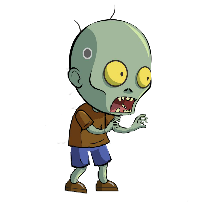
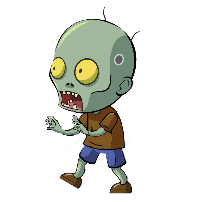
Added background+zombie animation

Changed region(s): [[0.21, 0.0297, 0.78, 0.9802], [0.57, 0.0297, 0.6, 0.0594]]

diff --git a/Label.java b/Label.java
@@ -1,0 +1,94 @@
+import greenfoot.*;  // (World, Actor, GreenfootImage, Greenfoot and MouseInfo)
+
+
+/**
+ * A Label class that allows you to display a textual value on screen.
+ * 
+ * The Label is an actor, so you will need to create it, and then add it to the world
+ * in Greenfoot.  If you keep a reference to the Label then you can change the text it
+ * displays.  
+ *
+ * @author Amjad Altadmri 
+ * @version 1.1
+ */
+public class Label extends Actor
+{
+    private String value;
+    private int fontSize;
+    private Color lineColor = Color.BLACK;
+    private Color fillColor = Color.WHITE;
+    
+    private static final Color transparent = new Color(0,0,0,0);
+
+    
+    /**
+     * Create a new label, initialise it with the int value to be shown and the font size 
+     */
+    public Label(int value, int fontSize)
+    {
+        this(Integer.toString(value), fontSize);
+    }
+    
+    /**
+     * Create a new label, initialise it with the needed text and the font size 
+     */
+    public Label(String value, int fontSize)
+    {
+        this.value = value;
+        this.fontSize = fontSize;
+        updateImage();
+    }
+
+    /**
+     * Sets the value  as text
+     * 
+     * @param value the text to be show
+     */
+    public void setValue(String value)
+    {
+        this.value = value;
+        updateImage();
+    }
+    
+    /**
+     * Sets the value as integer
+     * 
+     * @param value the value to be show
+     */
+    public void setValue(int value)
+    {
+        this.value = Integer.toString(value);
+        updateImage();
+    }
+    
+    /**
+     * Sets the line color of the text
+     * 
+     * @param lineColor the line color of the text
+     */
+    public void setLineColor(Color lineColor)
+    {
+        this.lineColor = lineColor;
+        updateImage();
+    }
+    
+    /**
+     * Sets the fill color of the text
+     * 
+     * @param fillColor the fill color of the text
+     */
+    public void setFillColor(Color fillColor)
+    {
+        this.fillColor = fillColor;
+        updateImage();
+    }
+    
+
+    /**
+     * Update the image on screen to show the current value.
+     */
+    private void updateImage()
+    {
+        setImage(new GreenfootImage(value, fontSize, fillColor, transparent, lineColor));
+    }
+}

diff --git a/SimpleTimer.java b/SimpleTimer.java
@@ -1,0 +1,61 @@
+/**
+ * A simple timer class that allows you to keep track of how much time
+ * has passed between events.
+ * 
+ * You use this class by creating a timer as a member field in your actor (or whatever):
+ * <pre>
+ * 
+ * private SimpleTimer timer = new SimpleTimer();
+ * </pre>
+ * 
+ * Then when you want to start the timer (for example, when a shot is fired), you call the mark() method:
+ * 
+ * <pre>
+ * 
+ * timer.mark();
+ * </pre>
+ * 
+ * Thereafter, you can use the millisElapsed() method to find out how long it's been since mark()
+ * was called (in milliseconds, i.e. thousandths of a second).  So if you want to only allow the player to fire a shot every second, you
+ * could write:
+ * 
+ * <pre>
+ * 
+ * if (timer.millisElapsed() > 1000 && Greenfoot.isKeyDown("space"))
+ * {
+ *     // Code here for firing a new shot
+ *     timer.mark(); // Reset the timer
+ * }
+ * </pre>
+ * 
+ * @author Neil Brown
+ * @version 1.0
+ */
+public class SimpleTimer
+{
+    private long lastMark = System.currentTimeMillis();
+    
+    /**
+     * Marks the current time.  You can then in future call
+     * millisElapsed() to find out the elapsed milliseconds
+     * since this mark() call was made.
+     * 
+     * A second mark() call will reset the mark, and millisElapsed()
+     * will start increasing from zero again.
+     */
+    public void mark()
+    {
+        lastMark = System.currentTimeMillis();
+    }
+    
+    /**
+     * Returns the amount of milliseconds that have elapsed since mark()
+     * was last called.  This timer runs irrespective of Greenfoot's
+     * act() cycle, so if you call it many times during the same Greenfoot frame,
+     * you may well get different answers.
+     */
+    public int millisElapsed()
+    {
+        return (int) (System.currentTimeMillis() - lastMark);
+    }
+}

diff --git a/Zombies.java b/Zombies.java
@@ -13,10 +13,12 @@ public class Zombies extends Actor
      * the 'Act' or 'Run' button gets pressed in the environment.
      */
     GreenfootImage[] idle = new GreenfootImage[8];
+    SimpleTimer animationTimer = new SimpleTimer();
     public void act()
     {
         // Add your action code here.
-        setLocation(getX() +1, getY());
+        setLocation(getX() -1 , getY());
+        
         
    
         MyWorld world = (MyWorld) getWorld();
@@ -25,5 +27,28 @@ public class Zombies extends Actor
             //world.gameOver();
             world.removeObject(this);
         }
+        //animate the zombie
+        animateZomb();
     }
+    
+    public Zombies()
+    {
+
+        for(int i = 0; i < idle.length; i ++)
+        {
+            idle[i] = new GreenfootImage("images/tile00" + i + ".png");
+            idle[i].scale(200, 200);
+        }
+        animationTimer.mark();
+        setImage(idle[0]);
+    }
+    
+    int imageIndex = 0;
+    public void animateZomb()
+    {
+        setImage(idle[imageIndex]);
+        imageIndex = (imageIndex + 1) % idle.length;
+        animationTimer.mark();
+    }
+        
 }

diff --git a/Heli.java b/Heli.java
@@ -1,0 +1,33 @@
+import greenfoot.*;  // (World, Actor, GreenfootImage, Greenfoot and MouseInfo)
+
+/**
+ * Write a description of class Heli here.
+ * 
+ * @author (your name) 
+ * @version (a version number or a date)
+ */
+public class Heli extends Actor
+{
+    /**
+     * Act - do whatever the Heli wants to do. This method is called whenever
+     * the 'Act' or 'Run' button gets pressed in the environment.
+     */
+    public void act()
+    {
+        // Add your action code here.
+        if(Greenfoot.isKeyDown("up"))
+        {
+            setLocation(getX(), getY()+3);
+        }
+        else if(Greenfoot.isKeyDown("down"))
+        {
+            setLocation(getX(), getY()-3);
+        }
+        
+        // animate helicopter 
+        //animateHeli();
+        
+    }
+   
+        
+}

diff --git a/MyWorld.java b/MyWorld.java
@@ -15,9 +15,25 @@ public class MyWorld extends World
      */
     public MyWorld()
     {    
-        super(700, 450, 1);
+        super(1400, 600, 1);
         Zombies z = new Zombies();
-        addObject(z, 50, 225);
+        addObject(z, 1200, 225);
+        prepare();
+        
     }
- 
+
+    /**
+     * Prepare the world for the start of the program.
+     * That is: create the initial objects and add them to the world.
+     */
+    private void prepare()
+    {
+        Heli heli = new Heli();
+        addObject(heli,1110,251);
+        heli.setLocation(1190,226);
+        heli.setLocation(273,285);
+        Label label = new Label(0, 80);
+        addObject(label,118,72);
+        label.setLocation(82,67);
+    }
 }

diff --git a/TitleScreen.java b/TitleScreen.java
@@ -17,4 +17,16 @@ public class TitleScreen extends World
     {    
         super(700, 450, 1);  
     }
+    /**
+     * Game start 
+     
+    public void act()
+    {
+        if(Greenfoot.isKeyDown("space"))
+        {
+            MyWorld gameWorld = new MyWorld();
+            Greenfoot.setWorld(gameWorld);
+        }
+    }
+    */
 }
